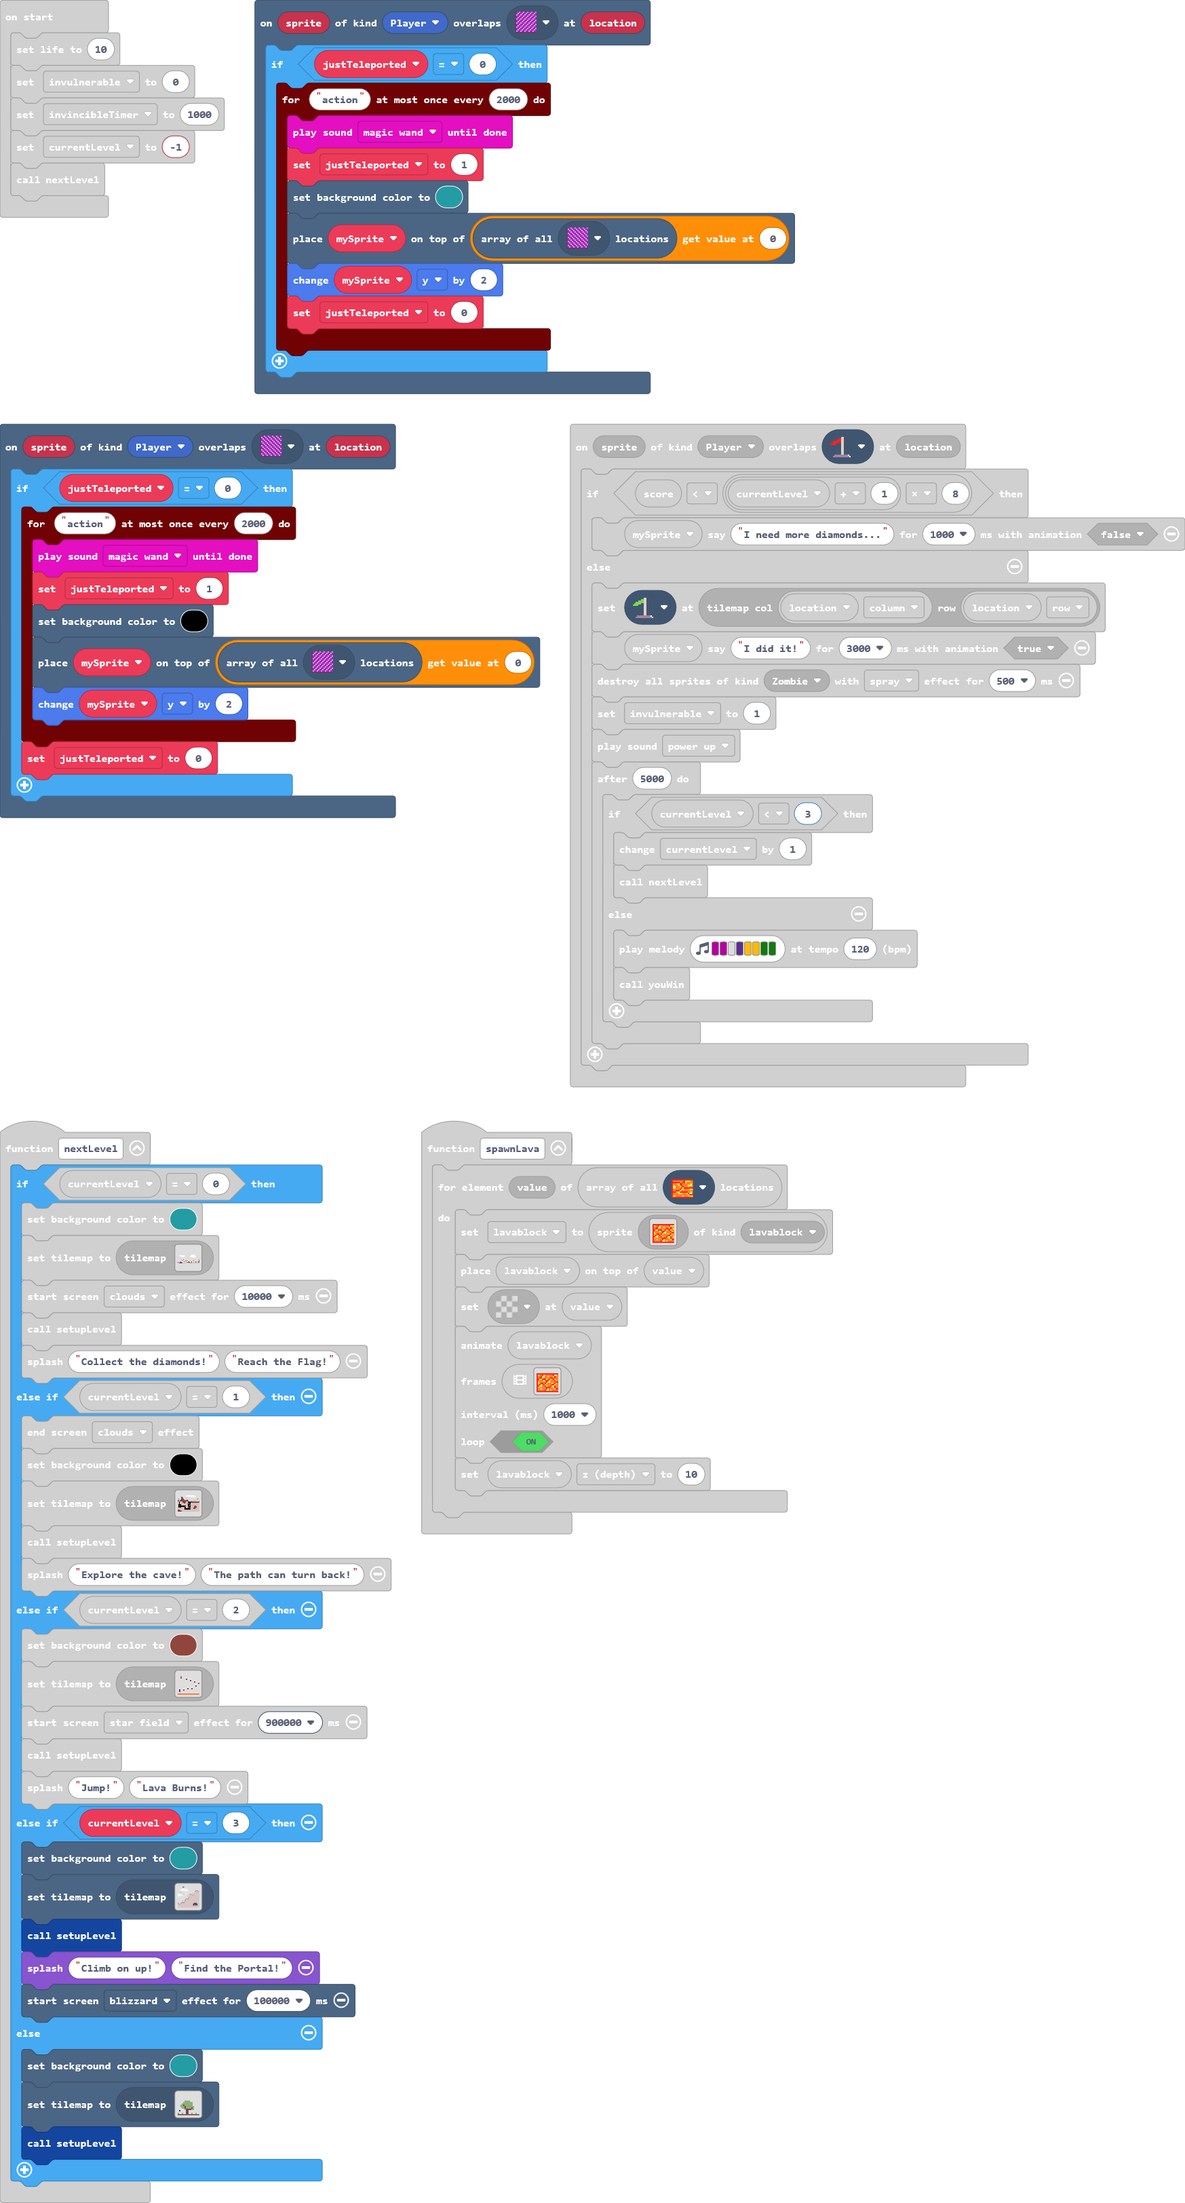
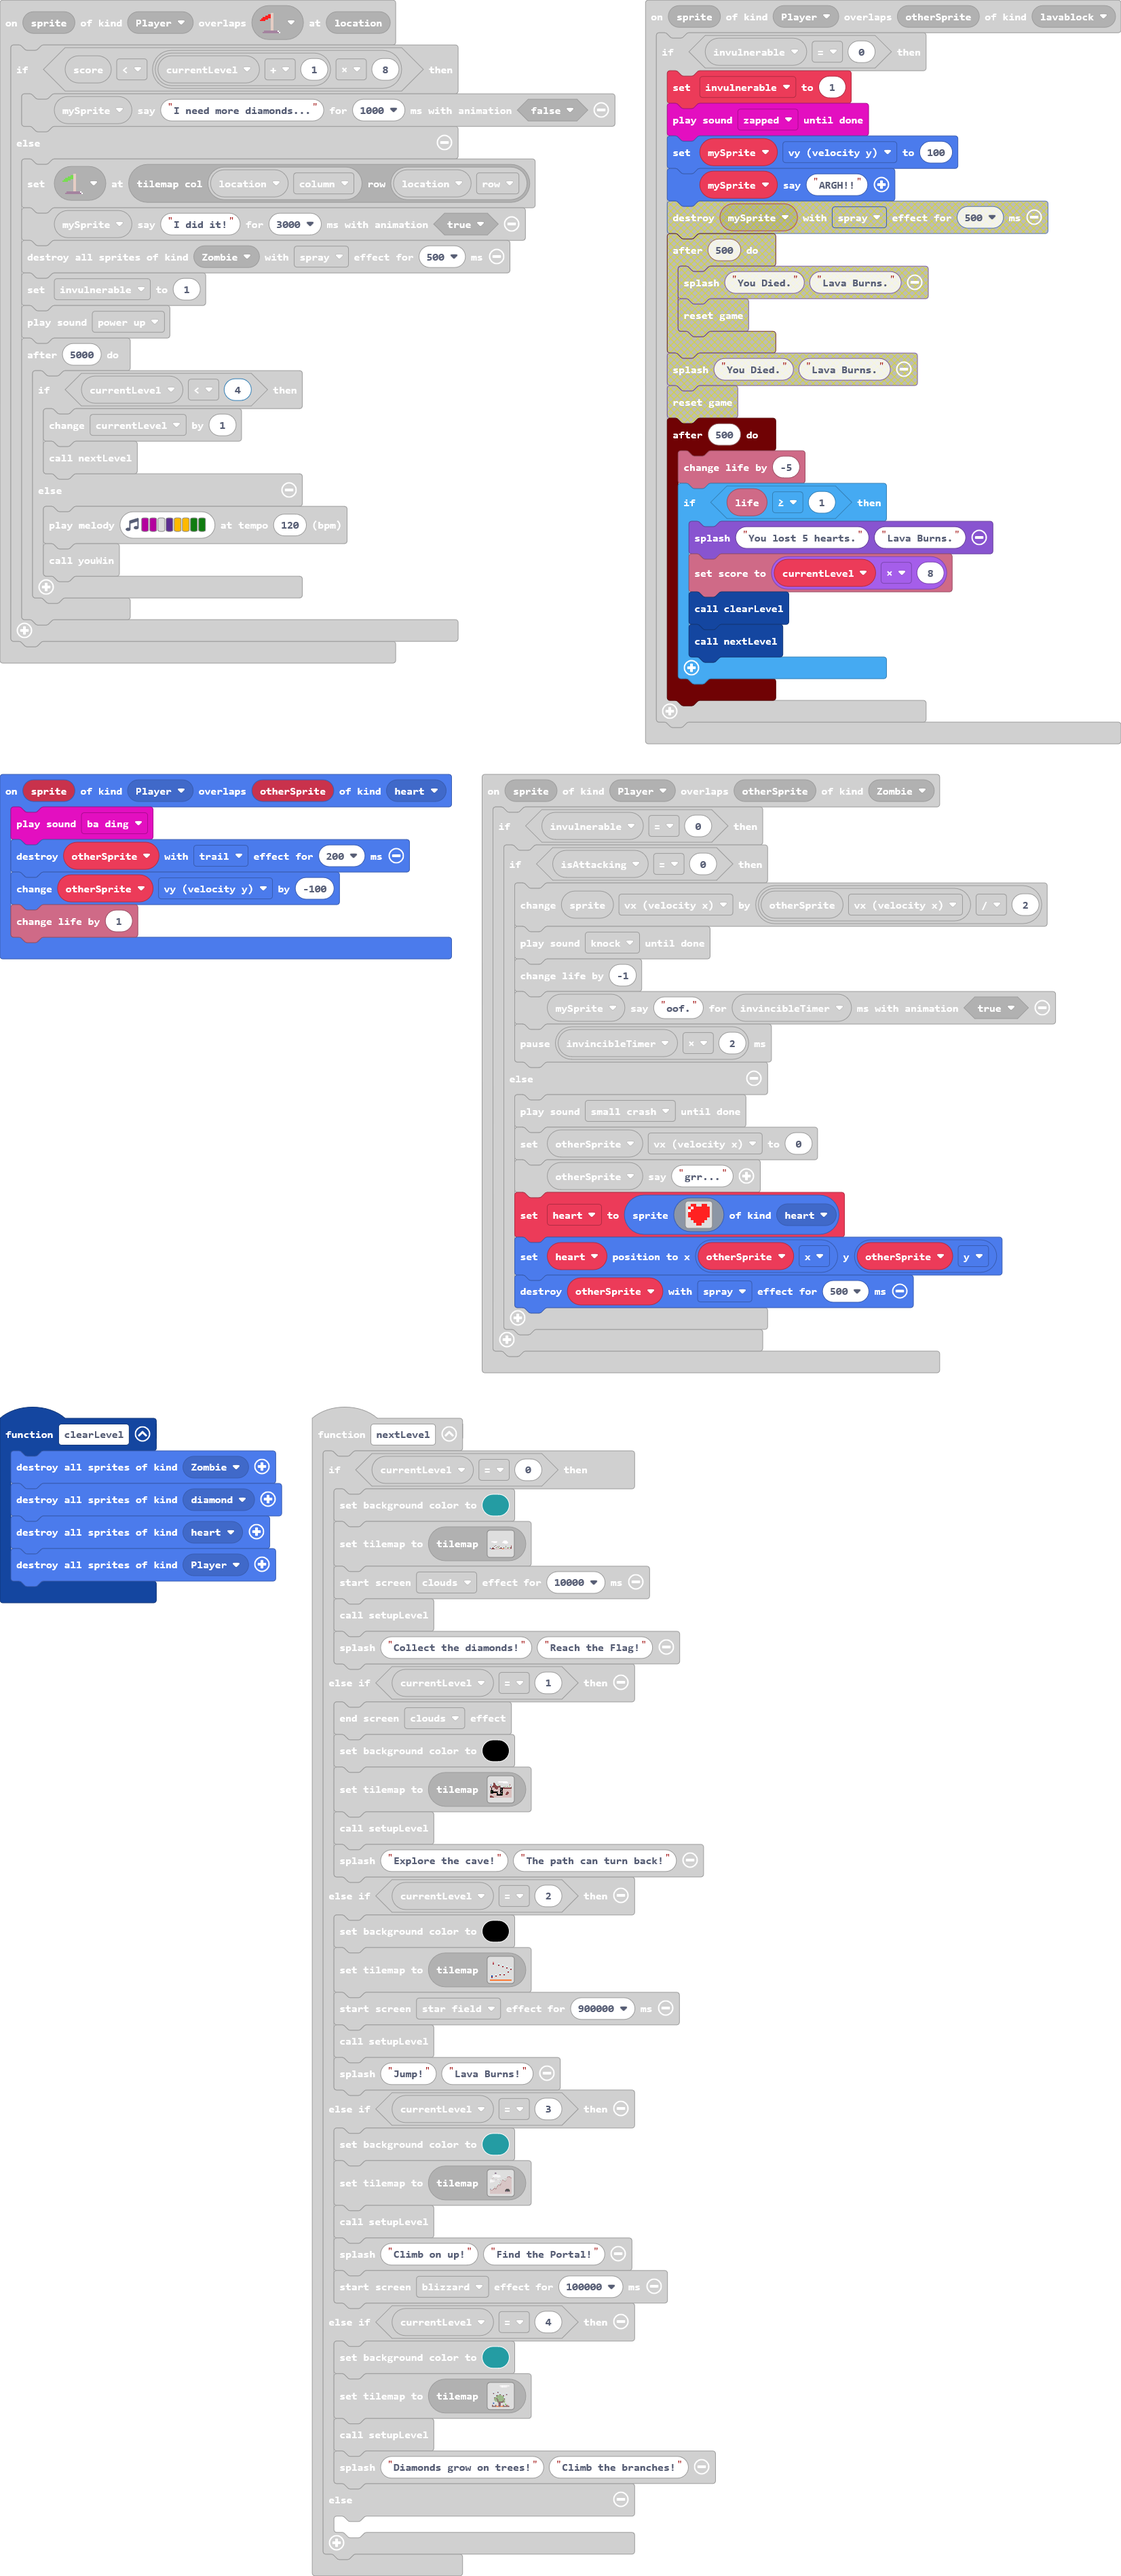
Update main.blocks, main.ts, images.g.jres, images.g.ts

diff --git a/main.ts b/main.ts
@@ -3,6 +3,7 @@ namespace SpriteKind {
     export const Zombie = SpriteKind.create()
     export const flag = SpriteKind.create()
     export const lavablock = SpriteKind.create()
+    export const heart = SpriteKind.create()
 }
 function setupLevel () {
     invulnerable = 0
@@ -23,7 +24,7 @@ scene.onOverlapTile(SpriteKind.Player, assets.tile`flagRed`, function (sprite, l
         invulnerable = 1
         music.powerUp.play()
         timer.after(5000, function () {
-            if (currentLevel < 3) {
+            if (currentLevel < 4) {
                 currentLevel += 1
                 nextLevel()
             } else {
@@ -102,6 +103,12 @@ controller.B.onEvent(ControllerButtonEvent.Pressed, function () {
         }
     }
 })
+sprites.onOverlap(SpriteKind.Player, SpriteKind.heart, function (sprite, otherSprite) {
+    music.baDing.play()
+    otherSprite.destroy(effects.trail, 200)
+    otherSprite.vy += -100
+    info.changeLifeBy(1)
+})
 controller.A.onEvent(ControllerButtonEvent.Pressed, function () {
     if (mySprite.isHittingTile(CollisionDirection.Bottom)) {
         music.footstep.play()
@@ -176,13 +183,18 @@ controller.left.onEvent(ControllerButtonEvent.Released, function () {
 })
 sprites.onOverlap(SpriteKind.Player, SpriteKind.lavablock, function (sprite, otherSprite) {
     if (invulnerable == 0) {
+        invulnerable = 1
         music.zapped.playUntilDone()
         mySprite.vy = 100
         mySprite.sayText("ARGH!!")
-        mySprite.destroy(effects.spray, 500)
         timer.after(500, function () {
-            game.splash("You Died.", "Lava Burns.")
-            game.reset()
+            info.changeLifeBy(-5)
+            if (info.life() >= 1) {
+                game.splash("You lost 5 hearts.", "Lava Burns.")
+                info.setScore(currentLevel * 8)
+                clearLevel()
+                nextLevel()
+            }
         })
     }
 })
@@ -244,7 +256,7 @@ function nextLevel () {
         setupLevel()
         game.splash("Explore the cave!", "The path can turn back!")
     } else if (currentLevel == 2) {
-        scene.setBackgroundColor(14)
+        scene.setBackgroundColor(15)
         tiles.setCurrentTilemap(tilemap`level2`)
         effects.starField.startScreenEffect(900000)
         setupLevel()
@@ -288,10 +300,18 @@ sprites.onOverlap(SpriteKind.Player, SpriteKind.Zombie, function (sprite, otherS
             music.smallCrash.playUntilDone()
             otherSprite.vx = 0
             otherSprite.sayText("grr...")
+            heart = sprites.create(assets.image`myImage1`, SpriteKind.heart)
+            heart.setPosition(otherSprite.x, otherSprite.y)
             otherSprite.destroy(effects.spray, 500)
         }
     }
 })
+function clearLevel () {
+    sprites.destroyAllSpritesOfKind(SpriteKind.Zombie)
+    sprites.destroyAllSpritesOfKind(SpriteKind.diamond)
+    sprites.destroyAllSpritesOfKind(SpriteKind.heart)
+    sprites.destroyAllSpritesOfKind(SpriteKind.Player)
+}
 function createPlayer () {
     mySprite = sprites.create(img`
         . . . . . . . . . . . . . . . . 
@@ -347,6 +367,7 @@ function youWin () {
 }
 let lavablock: Sprite = null
 let playerStart: tiles.Location = null
+let heart: Sprite = null
 let diamond: Sprite = null
 let justTeleported = 0
 let FacingRight = 0

diff --git a/images.g.ts b/images.g.ts
@@ -33,6 +33,17 @@ namespace myImages {
 2 4 4 4 4 4 2 5 1 4 5 4 4 4 4 4 
 2 2 2 2 2 2 2 2 2 2 2 2 2 2 2 2 
 `;
+            case "image3":
+            case "myImage1":return img`
+. 2 2 . . 2 2 . 
+2 1 2 2 2 2 2 2 
+1 2 2 2 2 2 2 2 
+2 2 2 2 2 2 2 2 
+2 2 2 2 2 2 2 2 
+. 2 2 2 2 2 2 . 
+. . 2 2 2 2 . . 
+. . . 2 2 . . . 
+`;
         }
         return null;
     })
